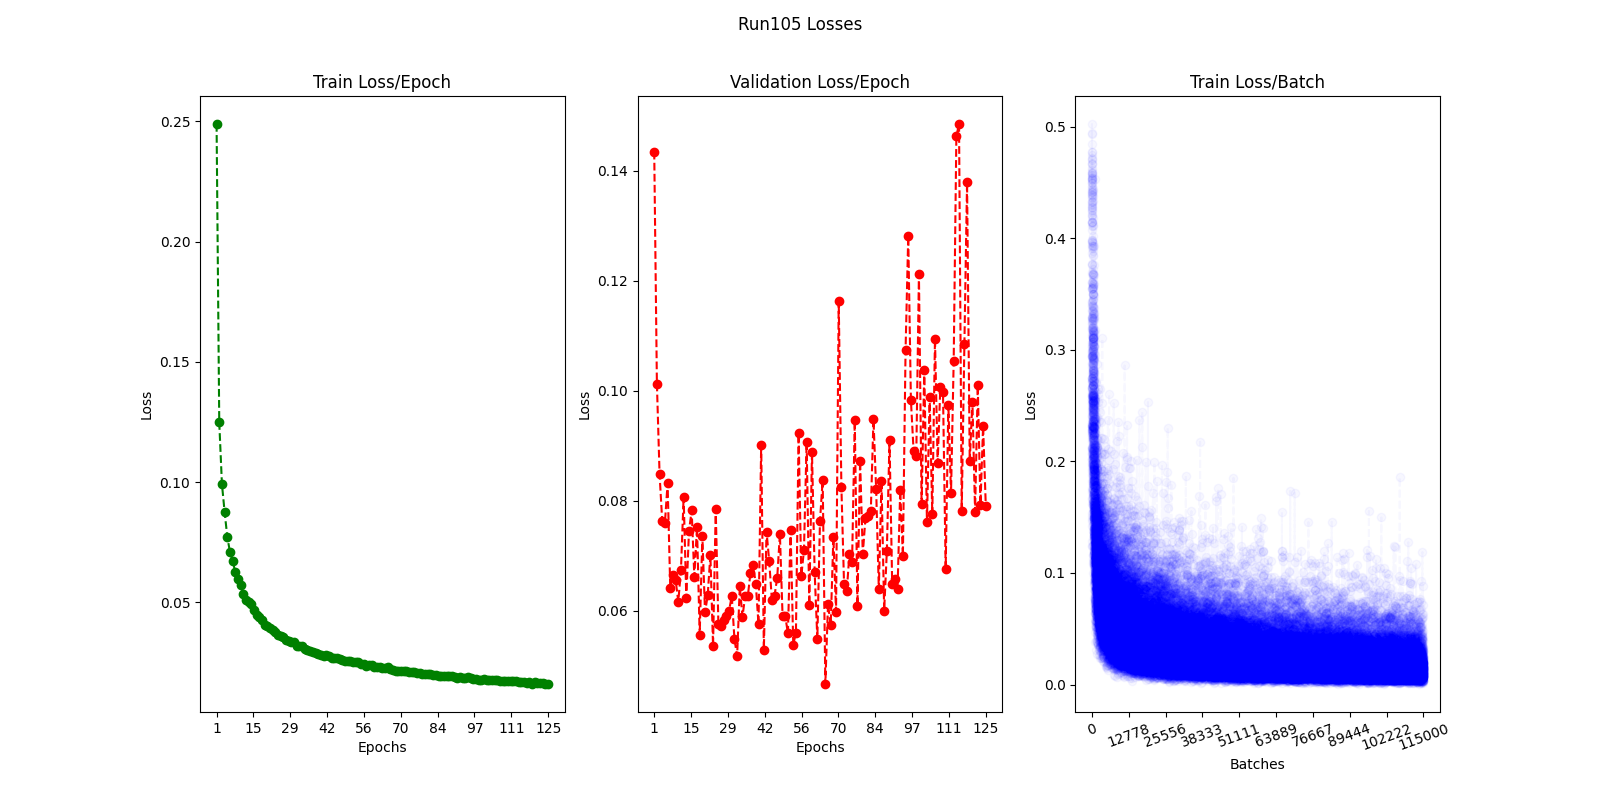
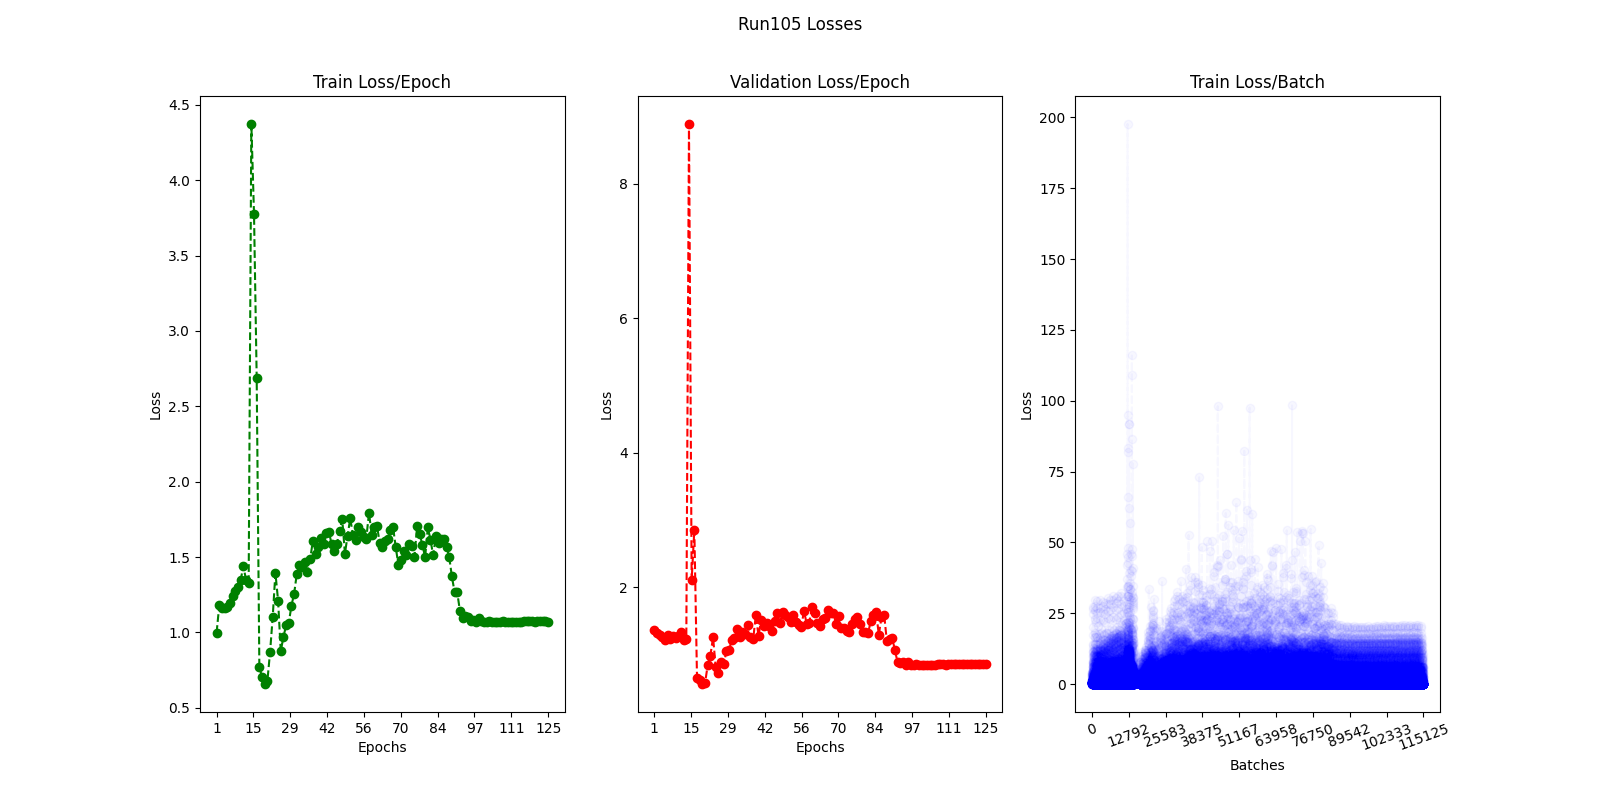
changes to implement the binary segmentation

diff --git a/train.py b/train.py
@@ -52,7 +52,7 @@ def get_class_weights(fluid: str=None):
     Returns:
         binary_weights (PyTorch tensor): weights of 
             background and fluid for the binary segmentation
-            with shape [2]
+            with shape [1]
     """
     # Loads the dataframe that contains the information 
     # of all the volumes
@@ -238,12 +238,12 @@ def train_model (
         # correspond to the label 
         # in the mask
         fluid = fluids_to_label.get(fluid)
-        # The number of classes in this model must always be 2 because 
+        # The number of classes in this model must always be 1 because 
         # it is a binary segmentation problem
-        if number_of_classes != 2:
+        if number_of_classes != 1:
             print("Because of the selected model, binary will " \
-                  "be performed so the number of classes is set to 2")
-            number_of_classes = 2
+                  "be performed so the number of classes is set to 1")
+            number_of_classes = 1
     # Warning in case the model selected does not require fluid but fluid 
     # was selected
     elif fluid is not None:
@@ -511,10 +511,9 @@ def train_model (
                 with torch.autocast(device_type=device.type if device.type != "mps" else "cpu", enabled=amp):
                     # Predicts the masks of the received images
                     masks_pred = model(images)
-                    # Performs one hot encoding on the true masks, in channels last format
-                    masks_true_one_hot = one_hot(true_masks.long(), model.n_classes).float().squeeze(1)
-
                     if model_name != "UNet3": 
+                        # Performs one hot encoding on the true masks, in channels last format
+                        masks_true_one_hot = one_hot(true_masks.long(), model.n_classes).float().squeeze(1)
                         # Performs softmax on the predicted masks
                         # dim=1 indicates that the softmax is calculated 
                         # across the masks, since the channels is the first 
@@ -537,8 +536,8 @@ def train_model (
                         #                          n_classes=model.n_classes, 
                         #                          eps=1e-7)
                         # Permute changes the images from channels first to channels last
-                        # masks_true_one_hot_cf = masks_true_one_hot.permute(0, 3, 1, 2) 
-                        true_masks = true_masks.unsqueeze(1).float()
+                        # masks_true_one_hot_cf = masks_true_one_hot.permute(0, 3, 1, 2)
+                        true_masks = true_masks.float()
                         criterion = torch.nn.BCEWithLogitsLoss(pos_weight=class_weights)
                         # loss = criterion(masks_pred, masks_true_one_hot_cf)
                         loss = criterion(masks_pred, true_masks)

diff --git a/init/patch_extraction.py b/init/patch_extraction.py
@@ -15,7 +15,7 @@ from skimage.filters.rank import entropy
 from skimage.transform import resize
 from time import time
 from torch.utils.data import DataLoader
-from network_functions.dataset import TrainDataset, TrainDatasetLMDB, TrainDatasetGAN, ValidationDataset, ValidationDatasetLMDB, ValidationDatasetGAN, drop_patches
+from network_functions.dataset import TrainDataset, TrainDatasetLMDB, ValidationDataset, ValidationDatasetLMDB, drop_patches
 from paths import IMAGES_PATH
 from .read_oct import int32_to_uint8, load_oct_image, load_oct_mask
 
